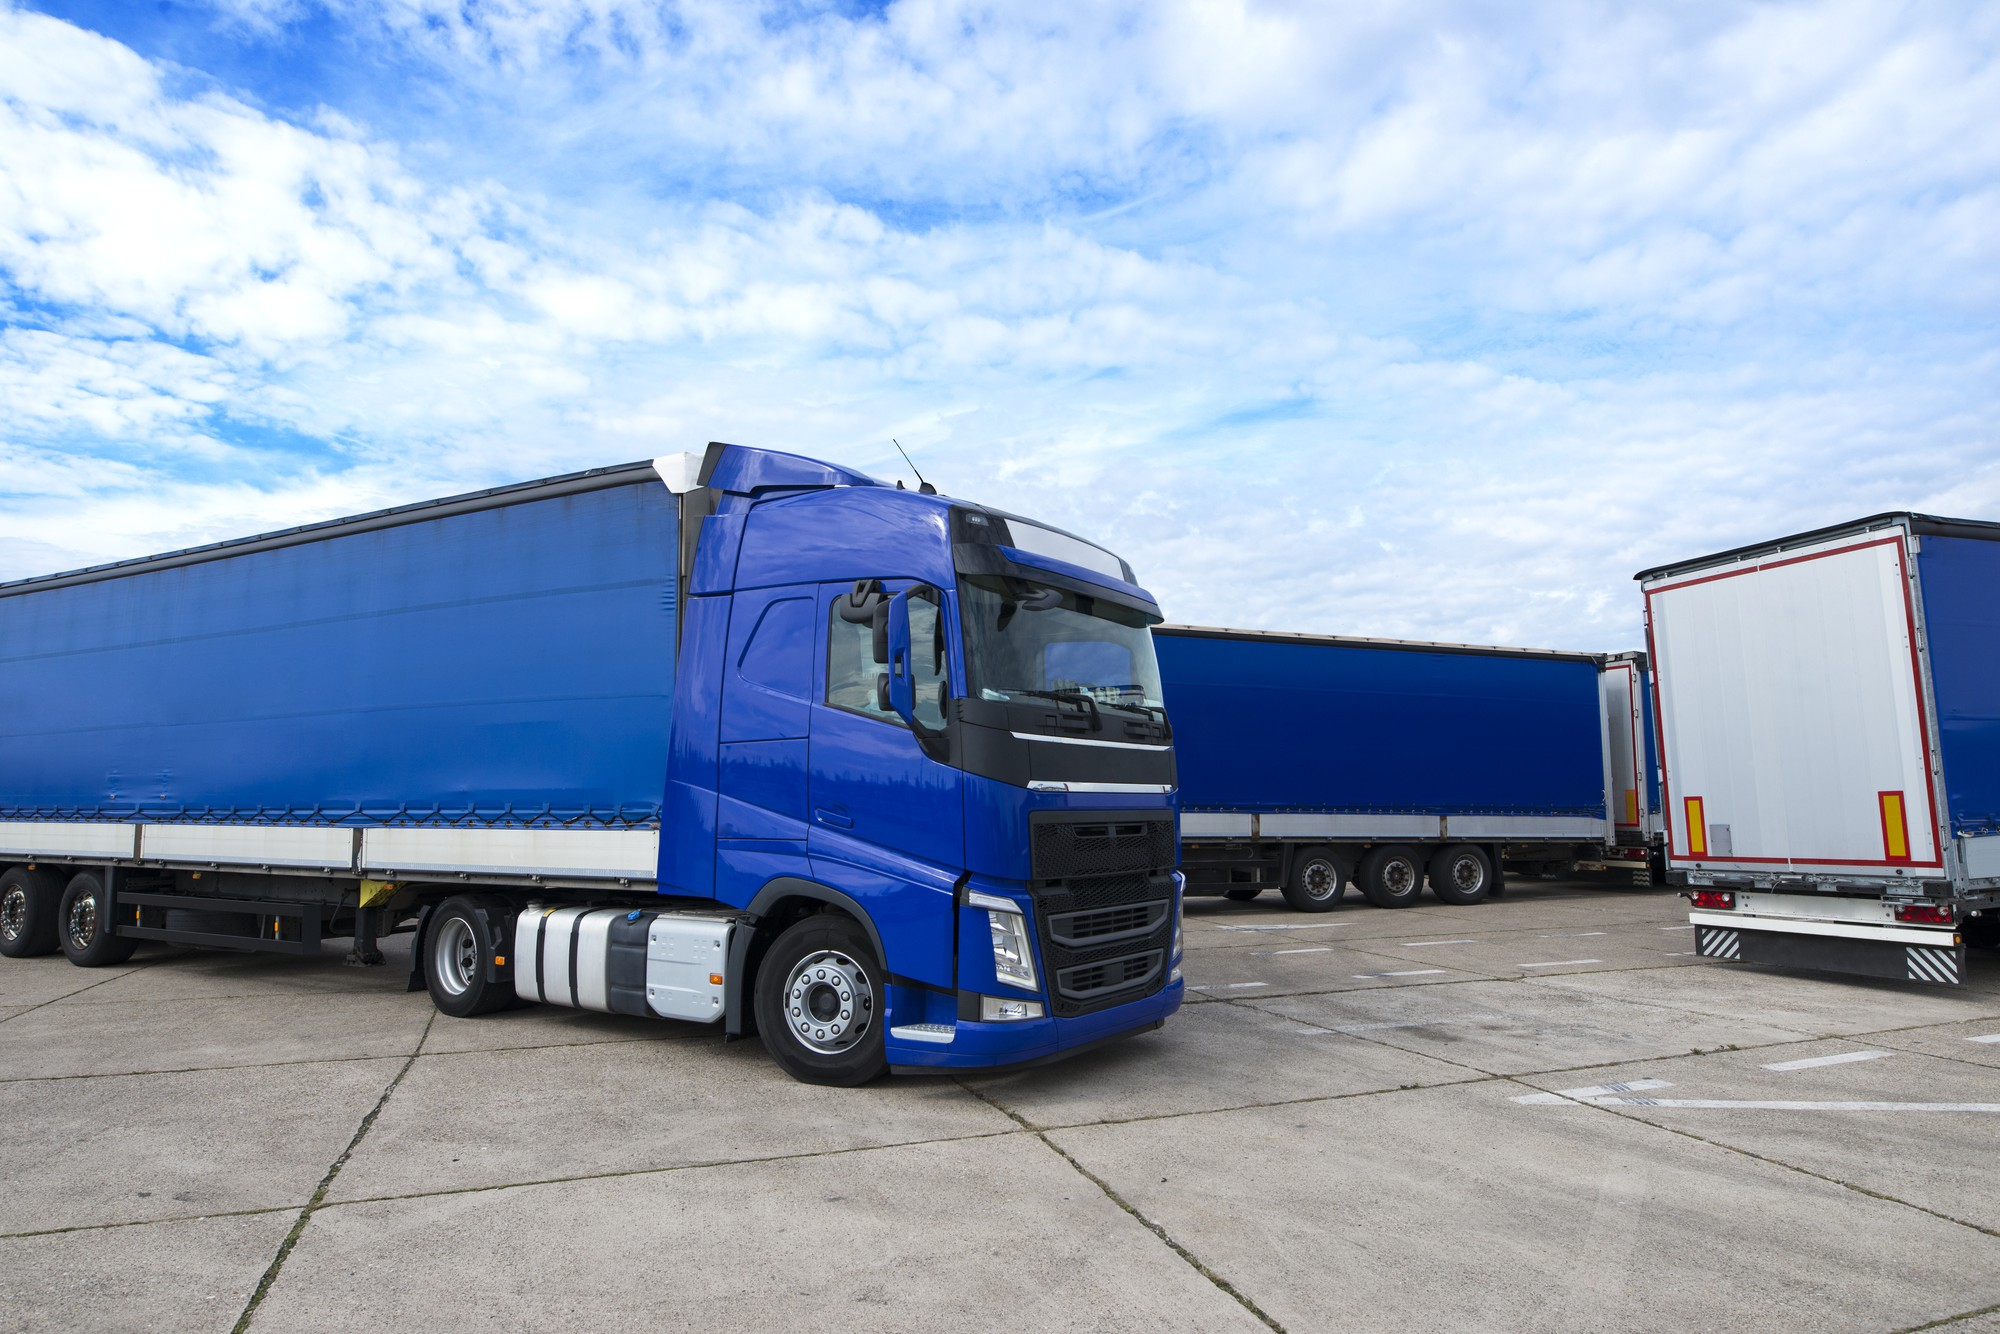
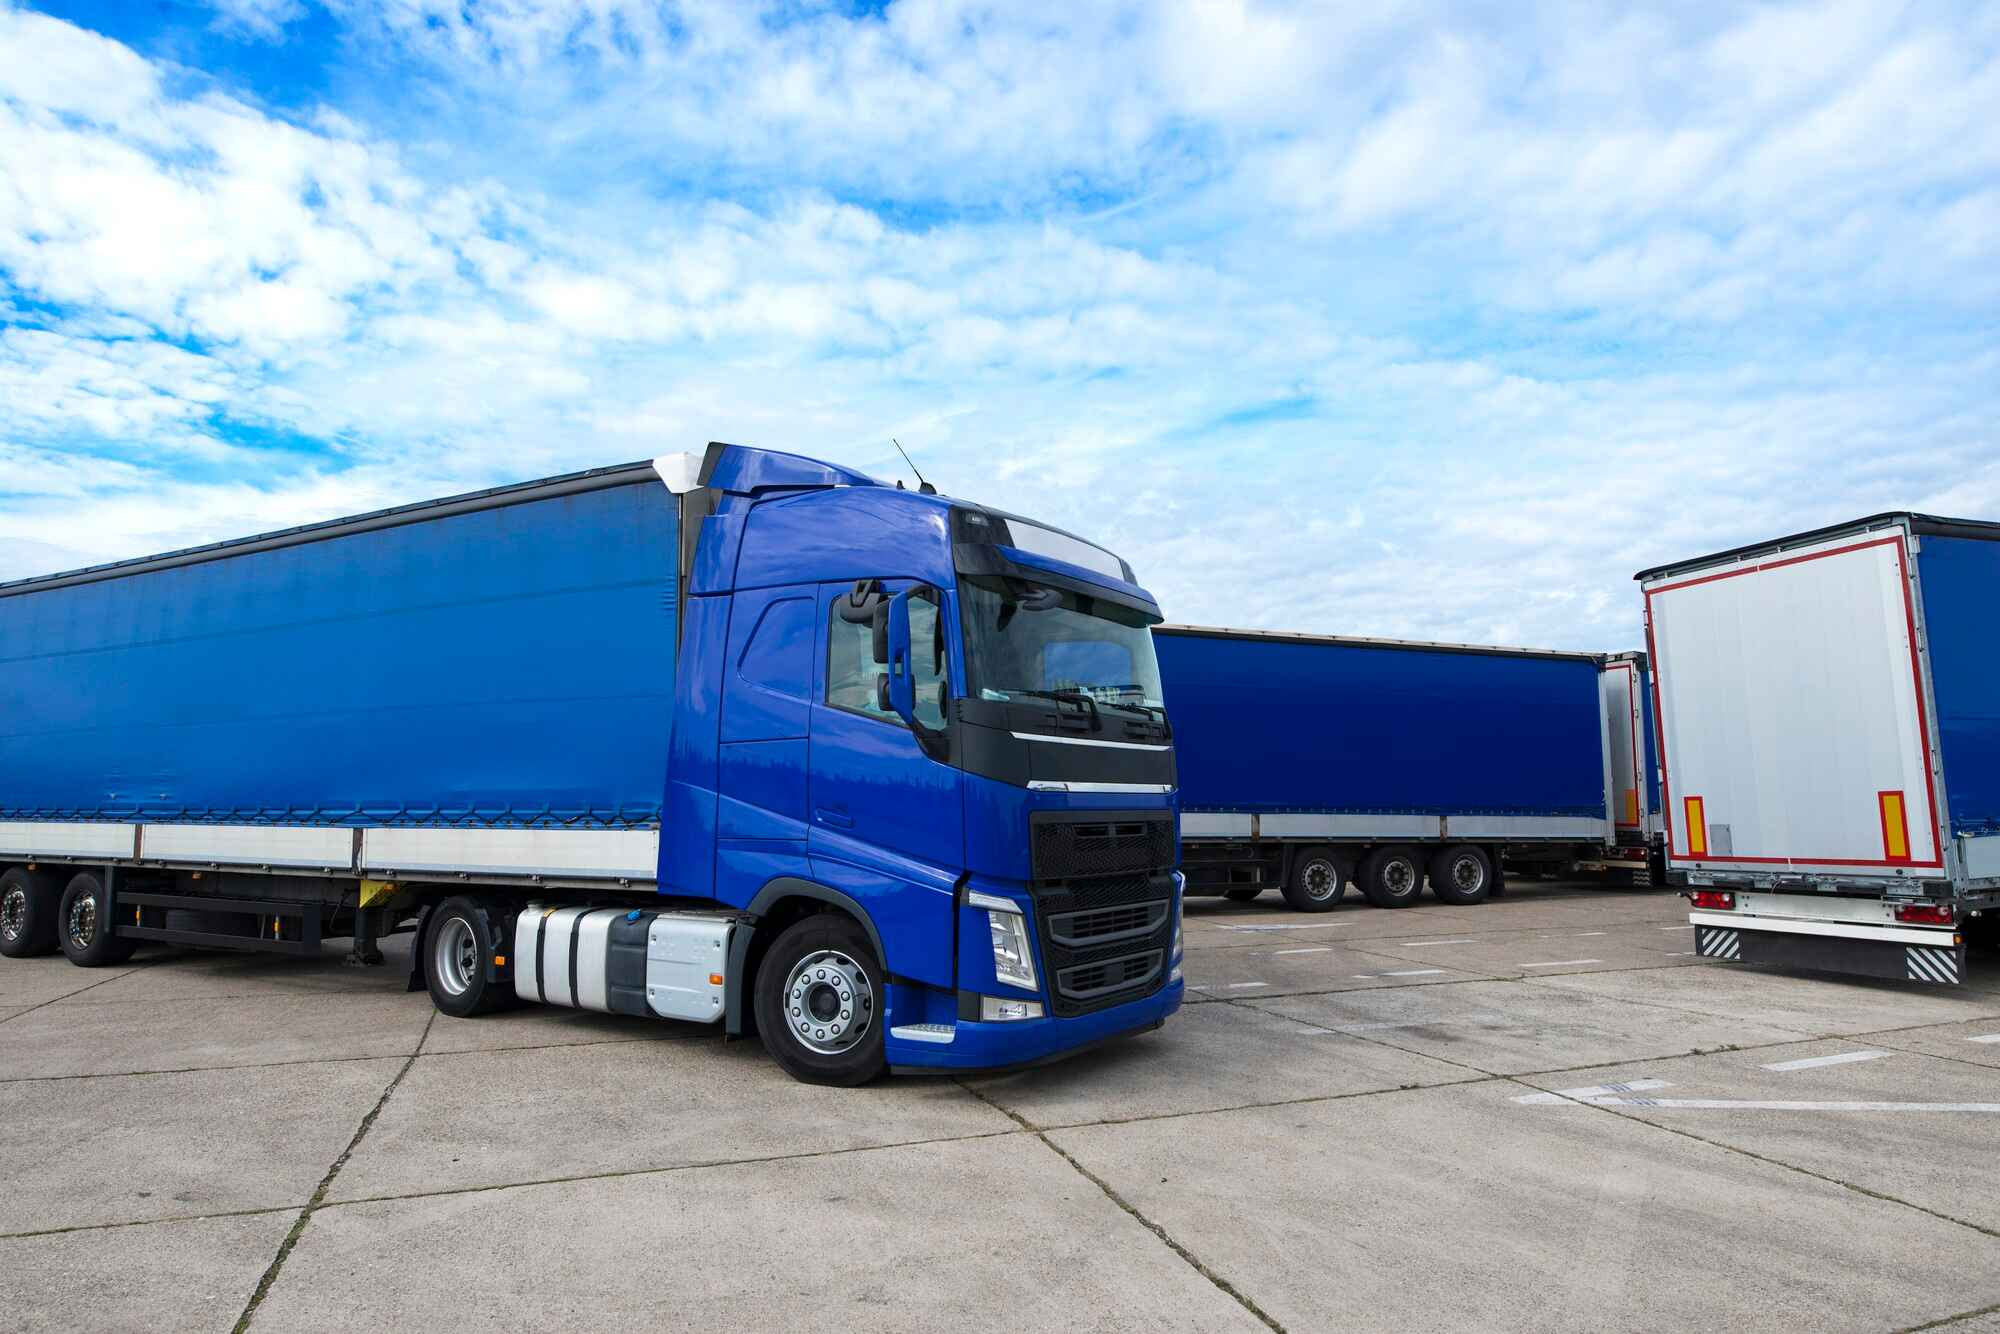
Making it more dynamic and making the images smaller

diff --git a/trucker_frontend/src/pages/TripPage.jsx b/trucker_frontend/src/pages/TripPage.jsx
@@ -6,7 +6,7 @@ import api from "../api";
 import LoadingIndicator from "../components/LoadingIndicator";
 import Footer from "../components/Footer2";
 import React from "react";
-import { Button } from "react-bootstrap";
+import { Button, Toast } from "react-bootstrap";
 
 const TripPage = () => {
   const [currentTrip, setCurrentTrip] = useState([]);
@@ -46,12 +46,32 @@ const TripPage = () => {
     getPastTrip("completed");
   }, []);
 
+  const [show, setShow] = useState(false);
+
+  // Function to show toast and hide it after 4 seconds
+  const handleShow = () => {
+    setShow(true);
+    setTimeout(() => {
+      setShow(false);
+    }, 4000); // 4000ms = 4 seconds
+    // alert("sdfghj");
+  };
+
   return (
     <>
       <Header />
       <div className="d-flex align-items-center justify-content-between px-5">
         <h2>Current Trip</h2>
-        <Button variant="success" as={Link} to="/trips/create">
+        <Button
+          variant={!currentTrip ? "success" : "secondary"}
+          as={Link}
+          to={!currentTrip ? "/trips/create" : ""}
+          onClick={() => {
+            if (currentTrip) {
+              handleShow();
+            }
+          }}
+        >
           New Trip
         </Button>
       </div>
@@ -83,6 +103,26 @@ const TripPage = () => {
           </ul>
         )}
       </section>
+      <Toast
+        show={show}
+        onClose={() => setShow(false)}
+        style={{
+          position: "fixed",
+          top: "20px",
+          left: "50%",
+          transform: "translateX(-50%)",
+          minWidth: "200px",
+        }}
+        delay={2000}
+        autohide
+      >
+        <Toast.Header>
+          <strong className="me-auto">Notification</strong>
+        </Toast.Header>
+        <Toast.Body className="text-dark fs-5">
+          You can not create a New Trip while you have a trip in progress
+        </Toast.Body>
+      </Toast>
       <Footer />
     </>
   );

diff --git a/trucker_frontend/src/components/TripCard.jsx b/trucker_frontend/src/components/TripCard.jsx
@@ -265,7 +265,7 @@ const TripCard = ({
           </Container>
         )
       ) : (
-        <h6>No logsheets for this trip</h6>
+        <h6></h6>
       )}
     </>
   );
